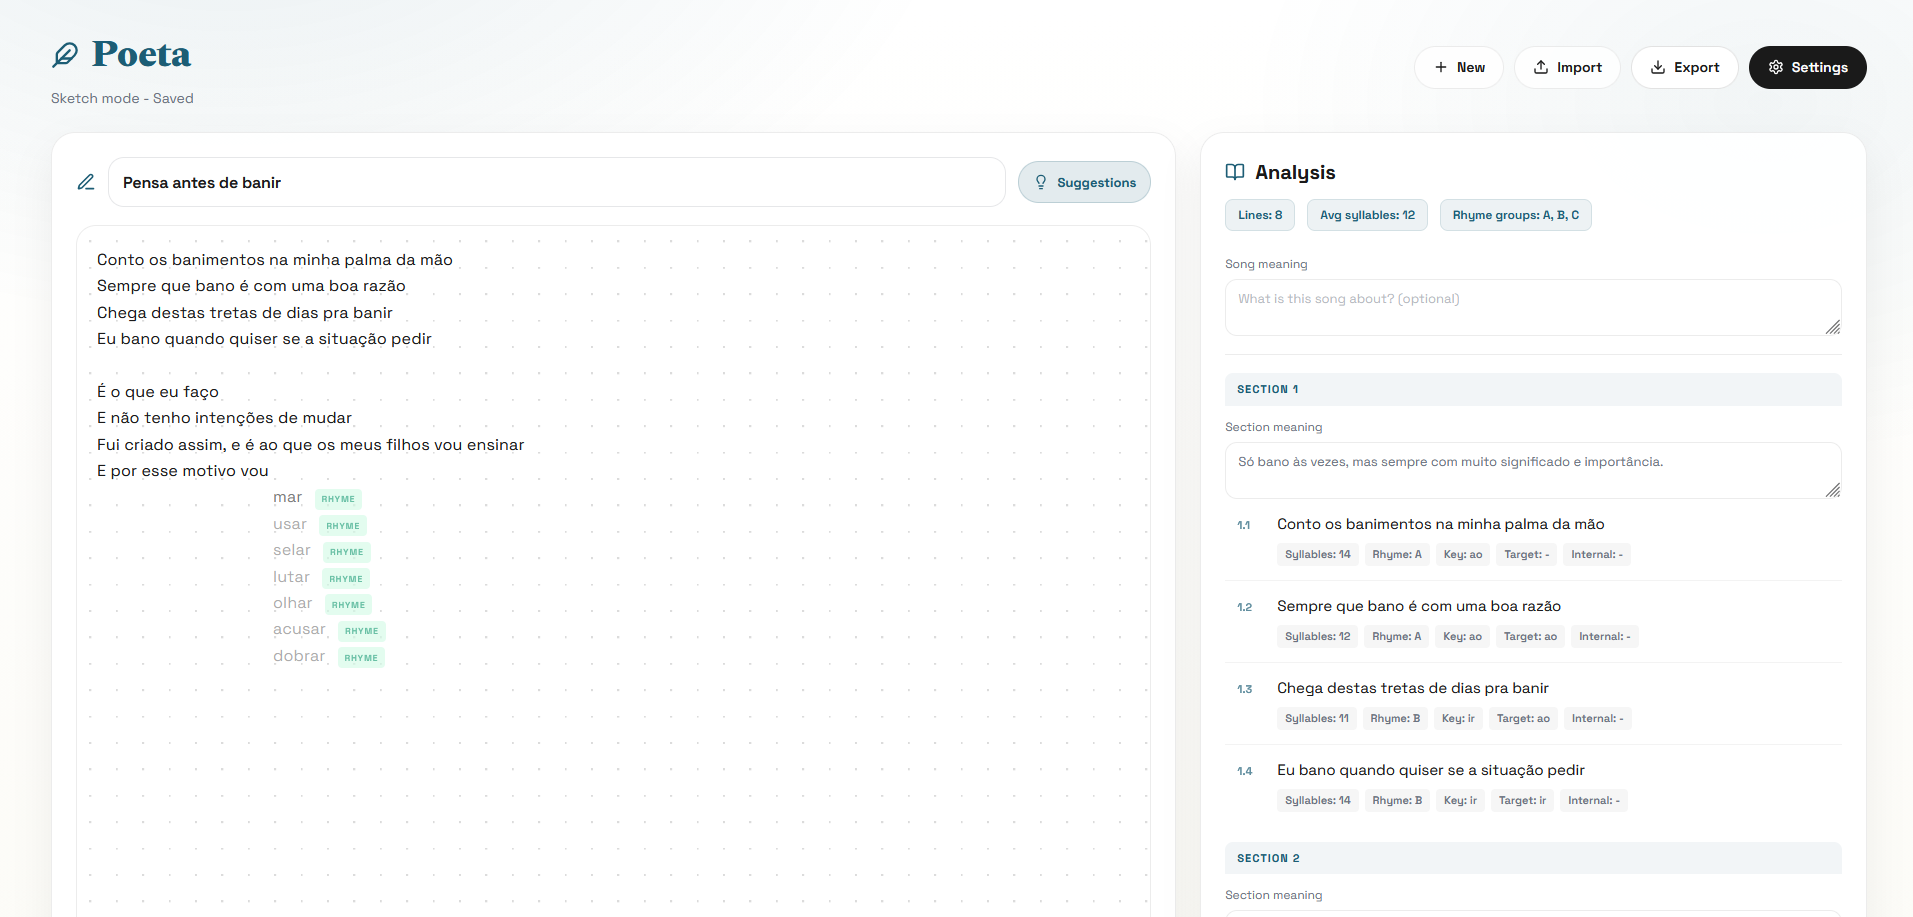
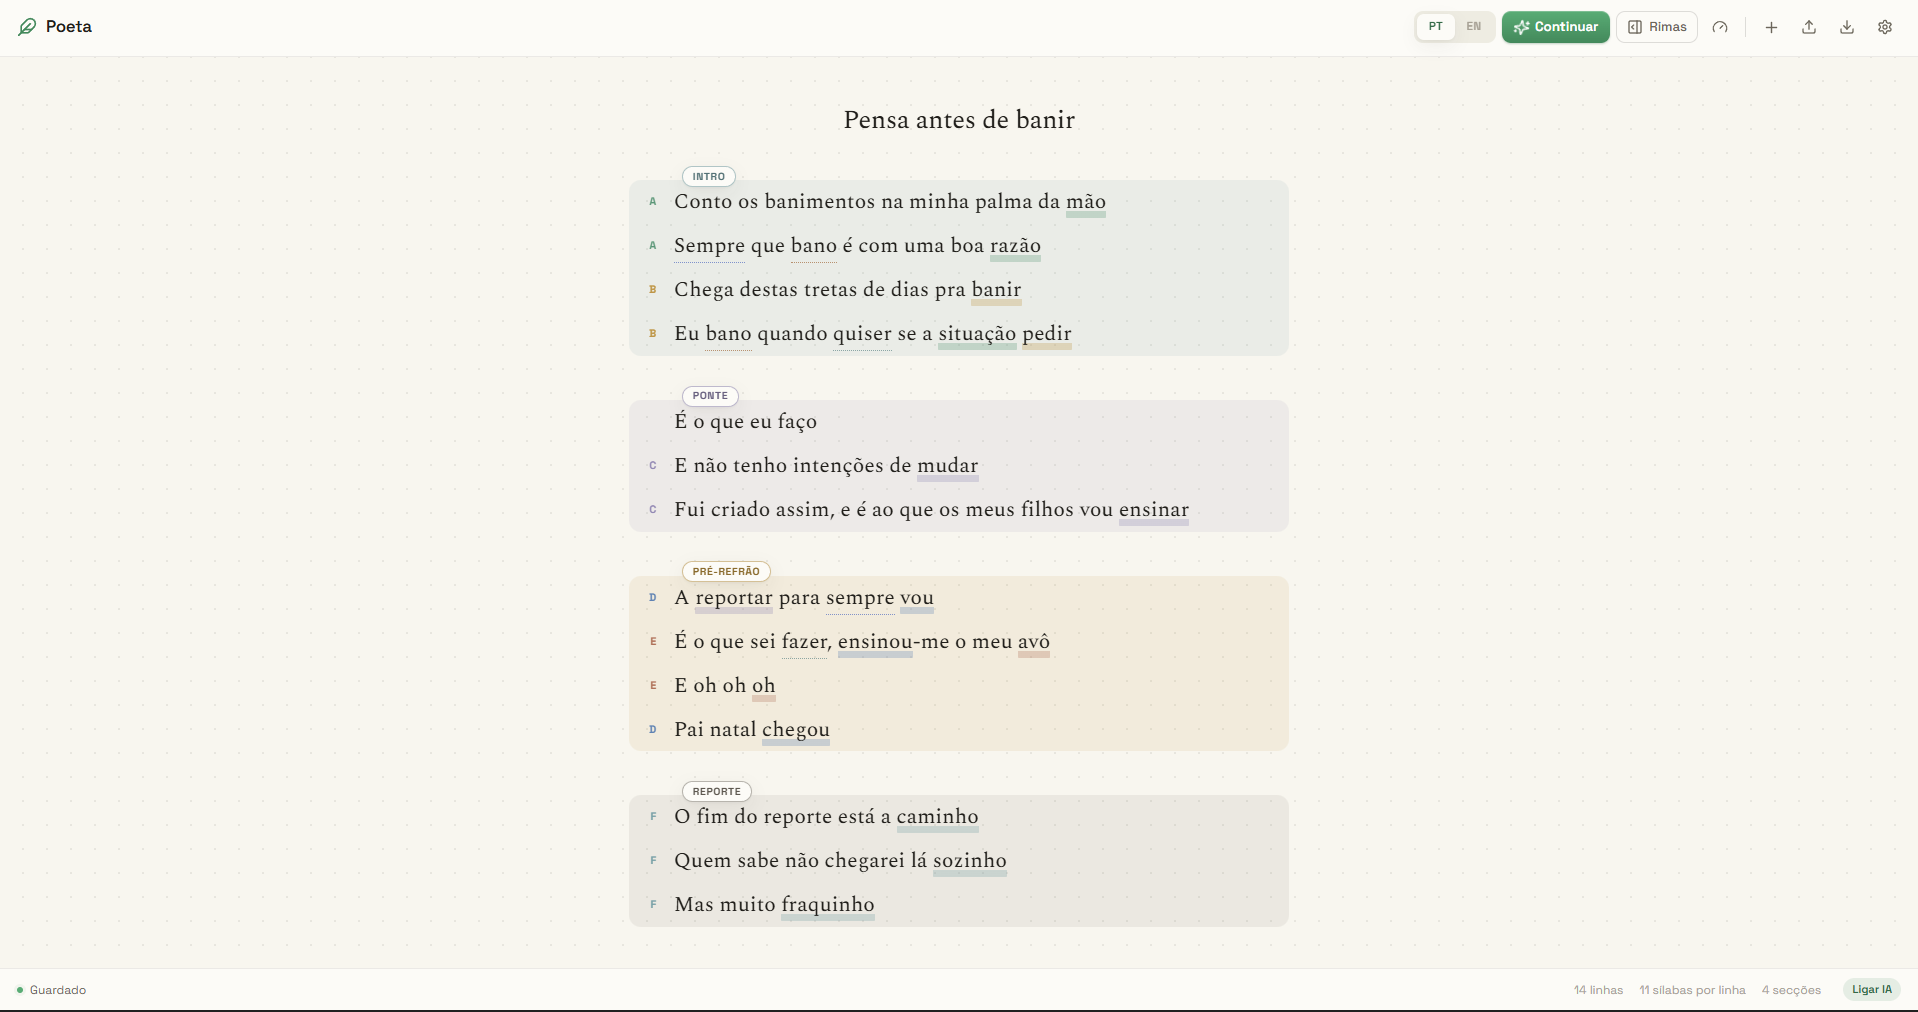
projects: ATLAS above Timebox, Buckshot above Traveller, consistent AI/Game tag families, refresh Poeta image, drop "available on request"

diff --git a/pages/index.tsx b/pages/index.tsx
@@ -89,23 +89,23 @@ const FEATURED: Project[] = [
     code: "https://github.com/zF4ke/ModernBazaar",
   },
   {
+    name: "ATLAS Onboard Video & SLAM",
+    tag: "Robotics",
+    blurb:
+      "Onboard software and a ground-station app for the ATLAS drone. A terminal menu on the ground drives a low-latency video downlink over WifiBroadcast (with a ZeroTier RTSP backup), onboard ORB-SLAM3 on a Jetson with an Intel RealSense, and realtime YOLO11n person detection through DeepStream and TensorRT, each toggled live over MAVLink. A supervisor keeps the modes running and restarts any that die.",
+    tech: ["Python", "GStreamer", "ORB-SLAM3", "TensorRT", "MAVLink"],
+    img: "/images/projects/atlas-swai.png",
+    isPrivate: true,
+  },
+  {
     name: "Timebox",
-    tag: "Multi-agent",
+    tag: "AI agents",
     blurb:
       "A desktop app where five AI agents draft, critique and vote on your weekly schedule under a quorum you control, then export it straight to your calendar. It ships with its own benchmark harness for comparing models on cost and quality.",
     tech: ["Electron", "React", "TypeScript", "OpenRouter"],
     img: "/images/projects/timebox.png",
     live: "https://zf4ke.github.io/timebox",
     code: "https://github.com/zF4ke/timebox",
-  },
-  {
-    name: "ATLAS Onboard Video & SLAM",
-    tag: "Drones",
-    blurb:
-      "Onboard software and a ground-station app for the ATLAS drone. A terminal menu on the ground drives a low-latency video downlink over WifiBroadcast (with a ZeroTier RTSP backup), onboard ORB-SLAM3 on a Jetson with an Intel RealSense, and realtime YOLO11n person detection through DeepStream and TensorRT, each toggled live over MAVLink. A supervisor keeps the modes running and restarts any that die.",
-    tech: ["Python", "GStreamer", "ORB-SLAM3", "TensorRT", "MAVLink"],
-    img: "/images/projects/atlas-swai.png",
-    isPrivate: true,
   },
   {
     name: "Book2English",
@@ -119,21 +119,13 @@ const FEATURED: Project[] = [
   },
   {
     name: "Poeta",
-    tag: "NLP",
+    tag: "AI tool",
     blurb:
       "A local-first writing desk for rap and poetry that surfaces phonetically accurate rhymes as you type. Portuguese runs through a from-scratch phonetic engine (stress detection, nasal vowels, the lot); English comes from the CMU Pronouncing Dictionary. Optional AI line suggestions, all in your browser.",
     tech: ["Next.js", "TypeScript", "TipTap", "OpenRouter"],
     img: "/images/projects/poeta.png",
     live: "https://poeta.zf4ke.me",
     code: "https://github.com/zF4ke/poeta",
-  },
-  {
-    name: "Traveller",
-    tag: "Game engine",
-    blurb:
-      "A multiplayer RPG played inside Discord where decrypting ciphers is the core mechanic. A platform-agnostic game engine with zero Discord imports, data-driven content, swappable storage, and a Next.js authoring dashboard. Its test suite plays entire quests in under a second.",
-    tech: ["TS monorepo", "MongoDB", "discord.js", "Next.js"],
-    isPrivate: true,
   },
   {
     name: "Buckshot Roulette Solver",
@@ -144,6 +136,14 @@ const FEATURED: Project[] = [
     img: "/images/projects/buckshot.png",
     download: "https://github.com/zF4ke/Buckshot-Roulette-Solver#for-players",
     code: "https://github.com/zF4ke/Buckshot-Roulette-Solver",
+  },
+  {
+    name: "Traveller",
+    tag: "Game engine",
+    blurb:
+      "A multiplayer RPG played inside Discord where decrypting ciphers is the core mechanic. A platform-agnostic game engine with zero Discord imports, data-driven content, swappable storage, and a Next.js authoring dashboard. Its test suite plays entire quests in under a second.",
+    tech: ["TS monorepo", "MongoDB", "discord.js", "Next.js"],
+    isPrivate: true,
   },
   {
     name: "Neuroevolution",
@@ -502,7 +502,7 @@ function ProjectModal({ p, onClose }: { p: Project; onClose: () => void }) {
             )}
             {p.isPrivate && (
               <span className="inline-flex items-center font-jetbrains text-[12px] text-zinc-500">
-                private repo, available on request
+                private repo
               </span>
             )}
           </div>
